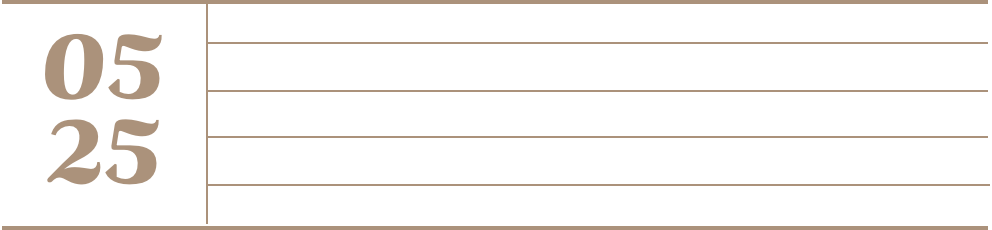
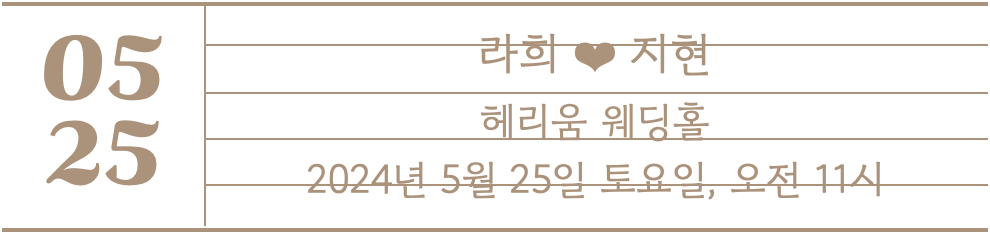
위치 및 크기 수정

diff --git a/src/components/Main/Main.styles.ts b/src/components/Main/Main.styles.ts
@@ -6,76 +6,33 @@ export const Container = styled.div`
   align-items: center;
   flex-direction: column;
   margin: auto;
-  text-align: center;
+  margin-bottom: 10vh;
   padding: 50px 0;
-  color: white;
-  text-shadow: 1px 1px 1px #bc8989;
   background: linear-gradient(${colors.pink} 50%, transparent 50%);
 `;
 
-export const Title = styled.h1`
-  position: absolute;
-  top: 6vh;
-  font-size: 30px;
-
-  @media (max-width: 768px) {
-    top: 7vh;
-    font-size: 25px;
-  }
-`;
-
-export const NameImage = styled.img`
-  width: 90%;
-  height: 100px;
-  padding: 20px;
-  object-fit: contain;
-  z-index: 2;
-`;
-
 export const MainImage = styled.img`
-  position: relative;
-  width: 80%;
-  top: 40px;
-  margin-top: -15vh;
-  z-index: 1;
+  width: 90%;
 `;
-
-// export const Datebox = styled.div`
-//   display: flex;
-//   flex-direction: column;
-//   justify-content: center;
-//   align-items: center;
-//   color: ${colors.content1};
-//   text-shadow: none;
-// `;
 
 export const DateImage = styled.img`
   position: relative;
-  width: 80%;
-  top: 10vh;
+  width: 77%;
+  margin-top: 5%;
 `;
 
 // export const TextBox = styled.div`
+//   position: relative;
 //   display: flex;
 //   flex-direction: column;
 //   justify-content: center;
 //   align-items: center;
-//   padding: 0 0 0 70px;
+//   width: 77%;
+//   bottom: 10vh;
+//   z-index: 1;
 // `;
 
-// export const NameText = styled.span`
-//   position: absolute;
-//   width: 60%;
-//   bottom: 235px;
-// `;
-// export const PlaceText = styled.span`
-//   position: absolute;
-//   width: 60%;
-//   bottom: 215px;
-// `;
-
-// export const DateText = styled.span`
-//   position: absolute;
-//   width: 60%;
-//   bottom: 194px;
+// export const Text = styled.span`
+//   padding: 0.5vh 0 0 10vh;
+//   color: ${colors.content1};
 // `;

diff --git a/src/components/Main/Main.tsx b/src/components/Main/Main.tsx
@@ -1,14 +1,11 @@
 import date from '../../assets/date.png';
-import name from '../../assets/name.png';
-import wedding from '../../assets/wedding.png';
+import wedding2 from '../../assets/wedding2.png';
 import * as Styled from './Main.styles';
 
 export const Main = () => {
   return (
     <Styled.Container>
-      <Styled.Title>THE MARRIAGE OF</Styled.Title>
-      <Styled.NameImage src={name} alt="name" />
-      <Styled.MainImage src={wedding} alt="wedding" />
+      <Styled.MainImage src={wedding2} alt="wedding" />
       <Styled.DateImage src={date} alt="date" />
     </Styled.Container>
   );
